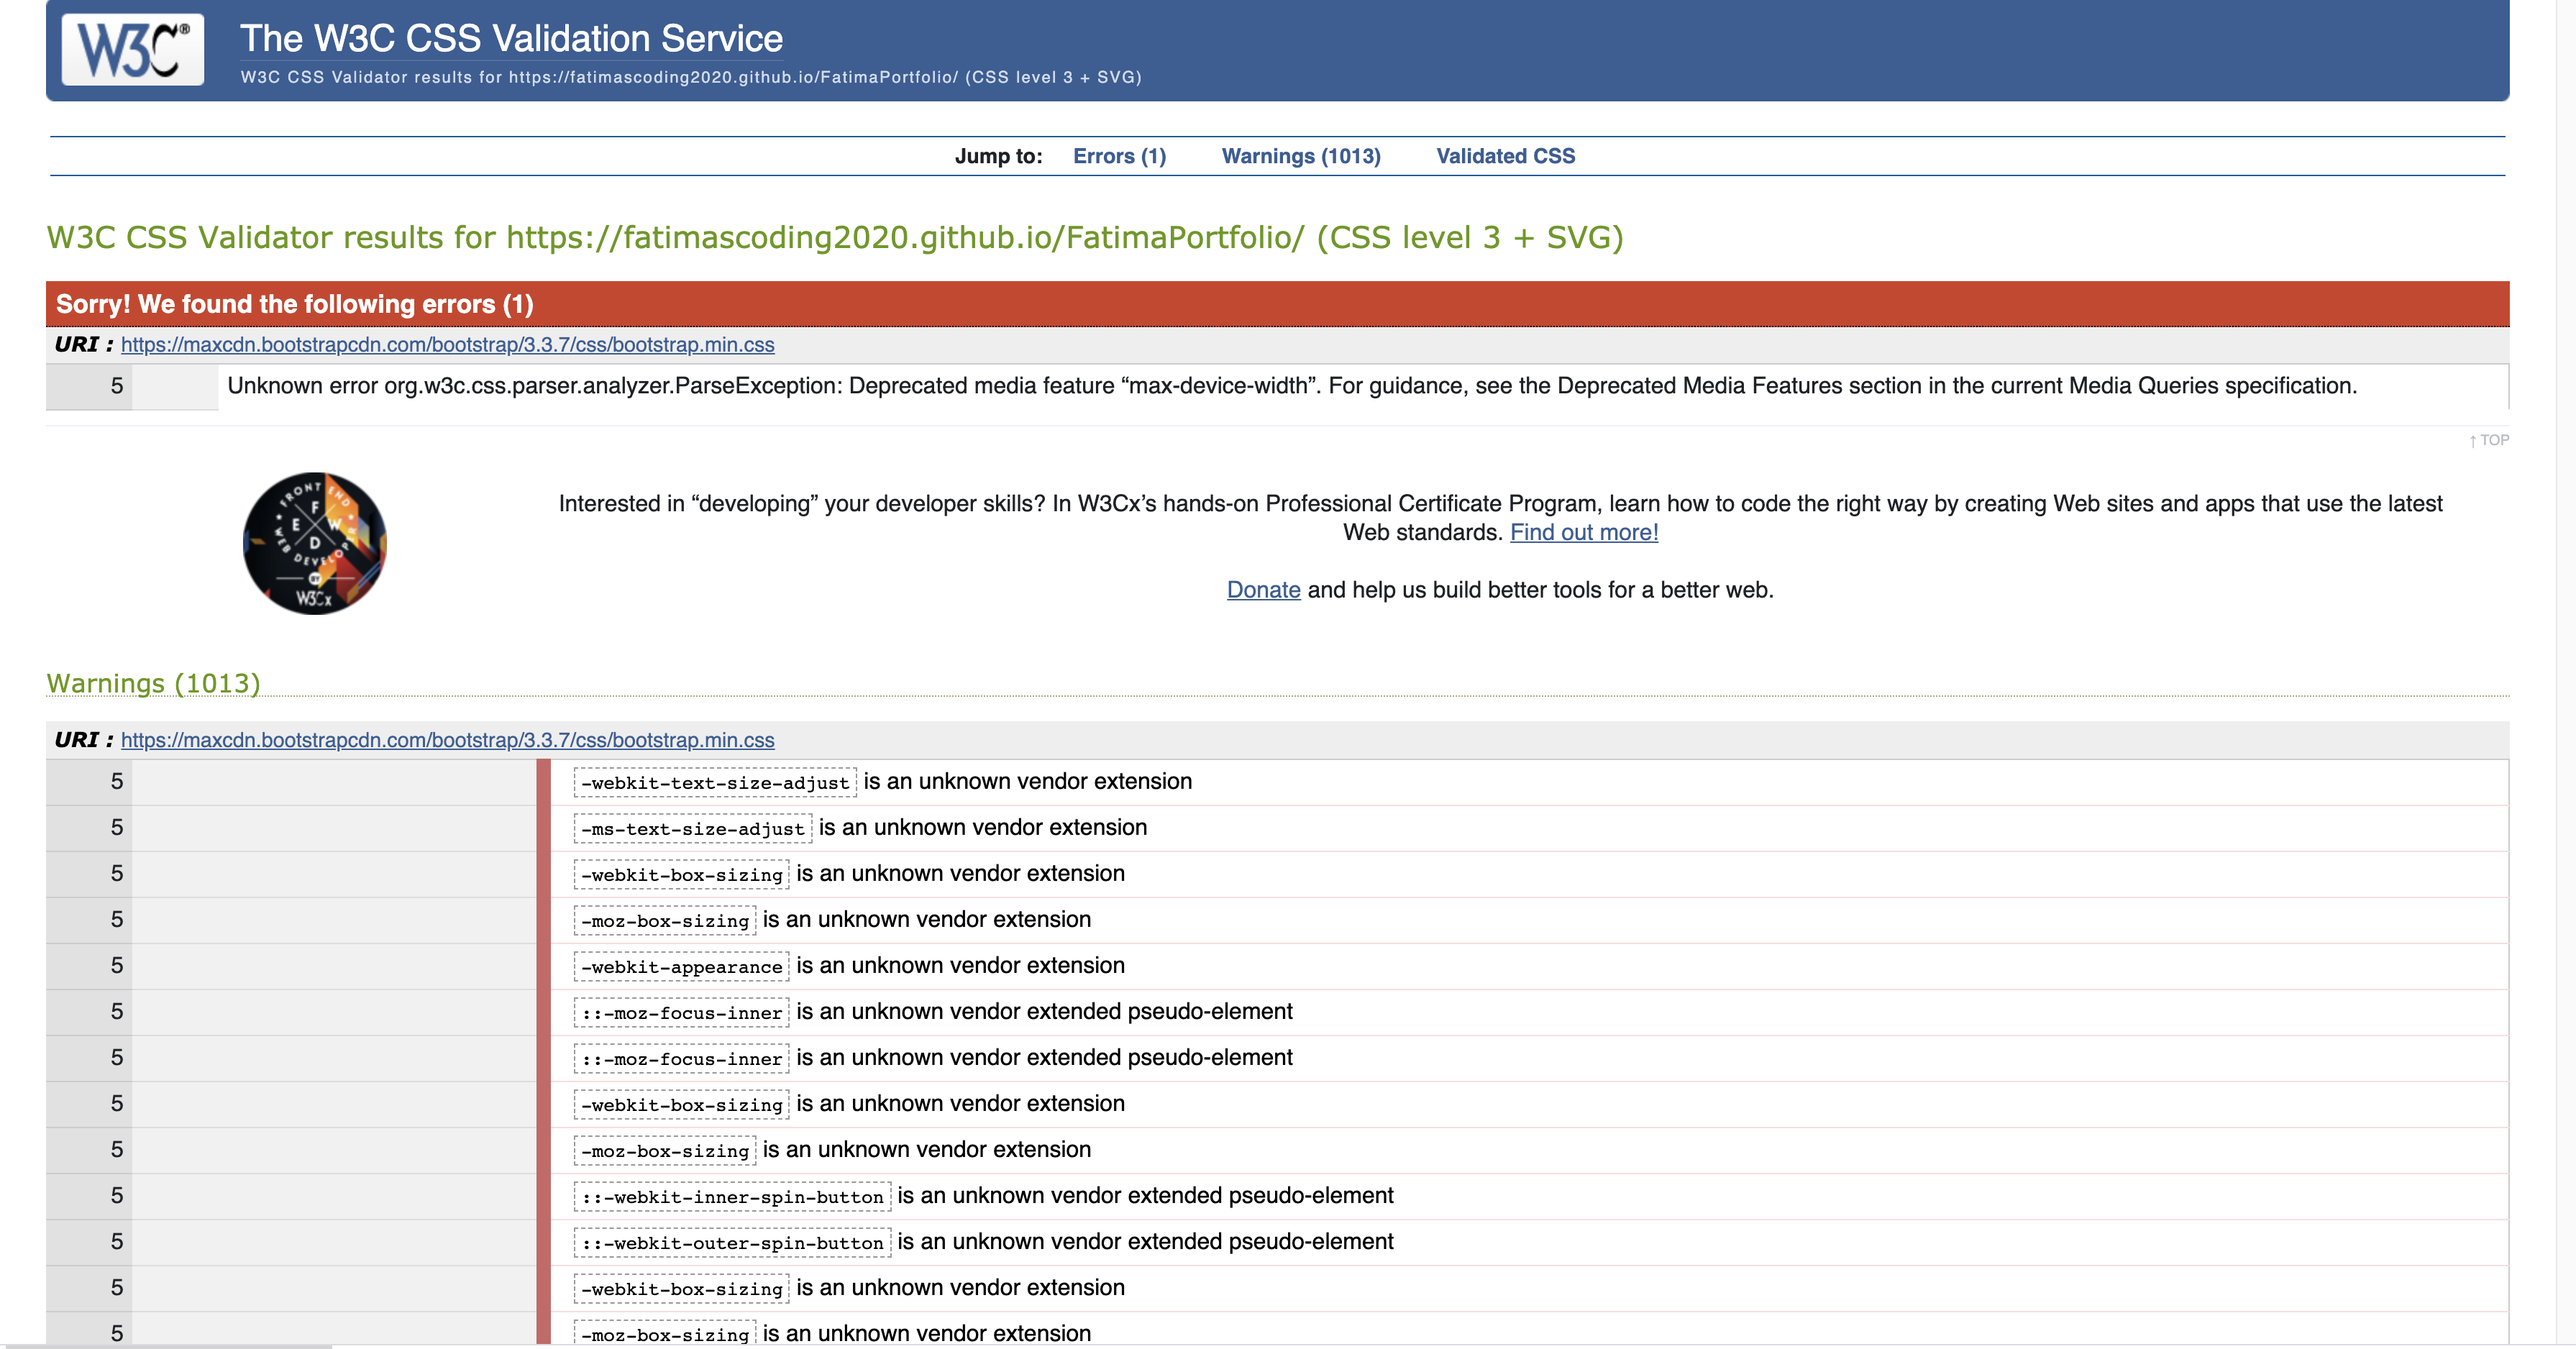
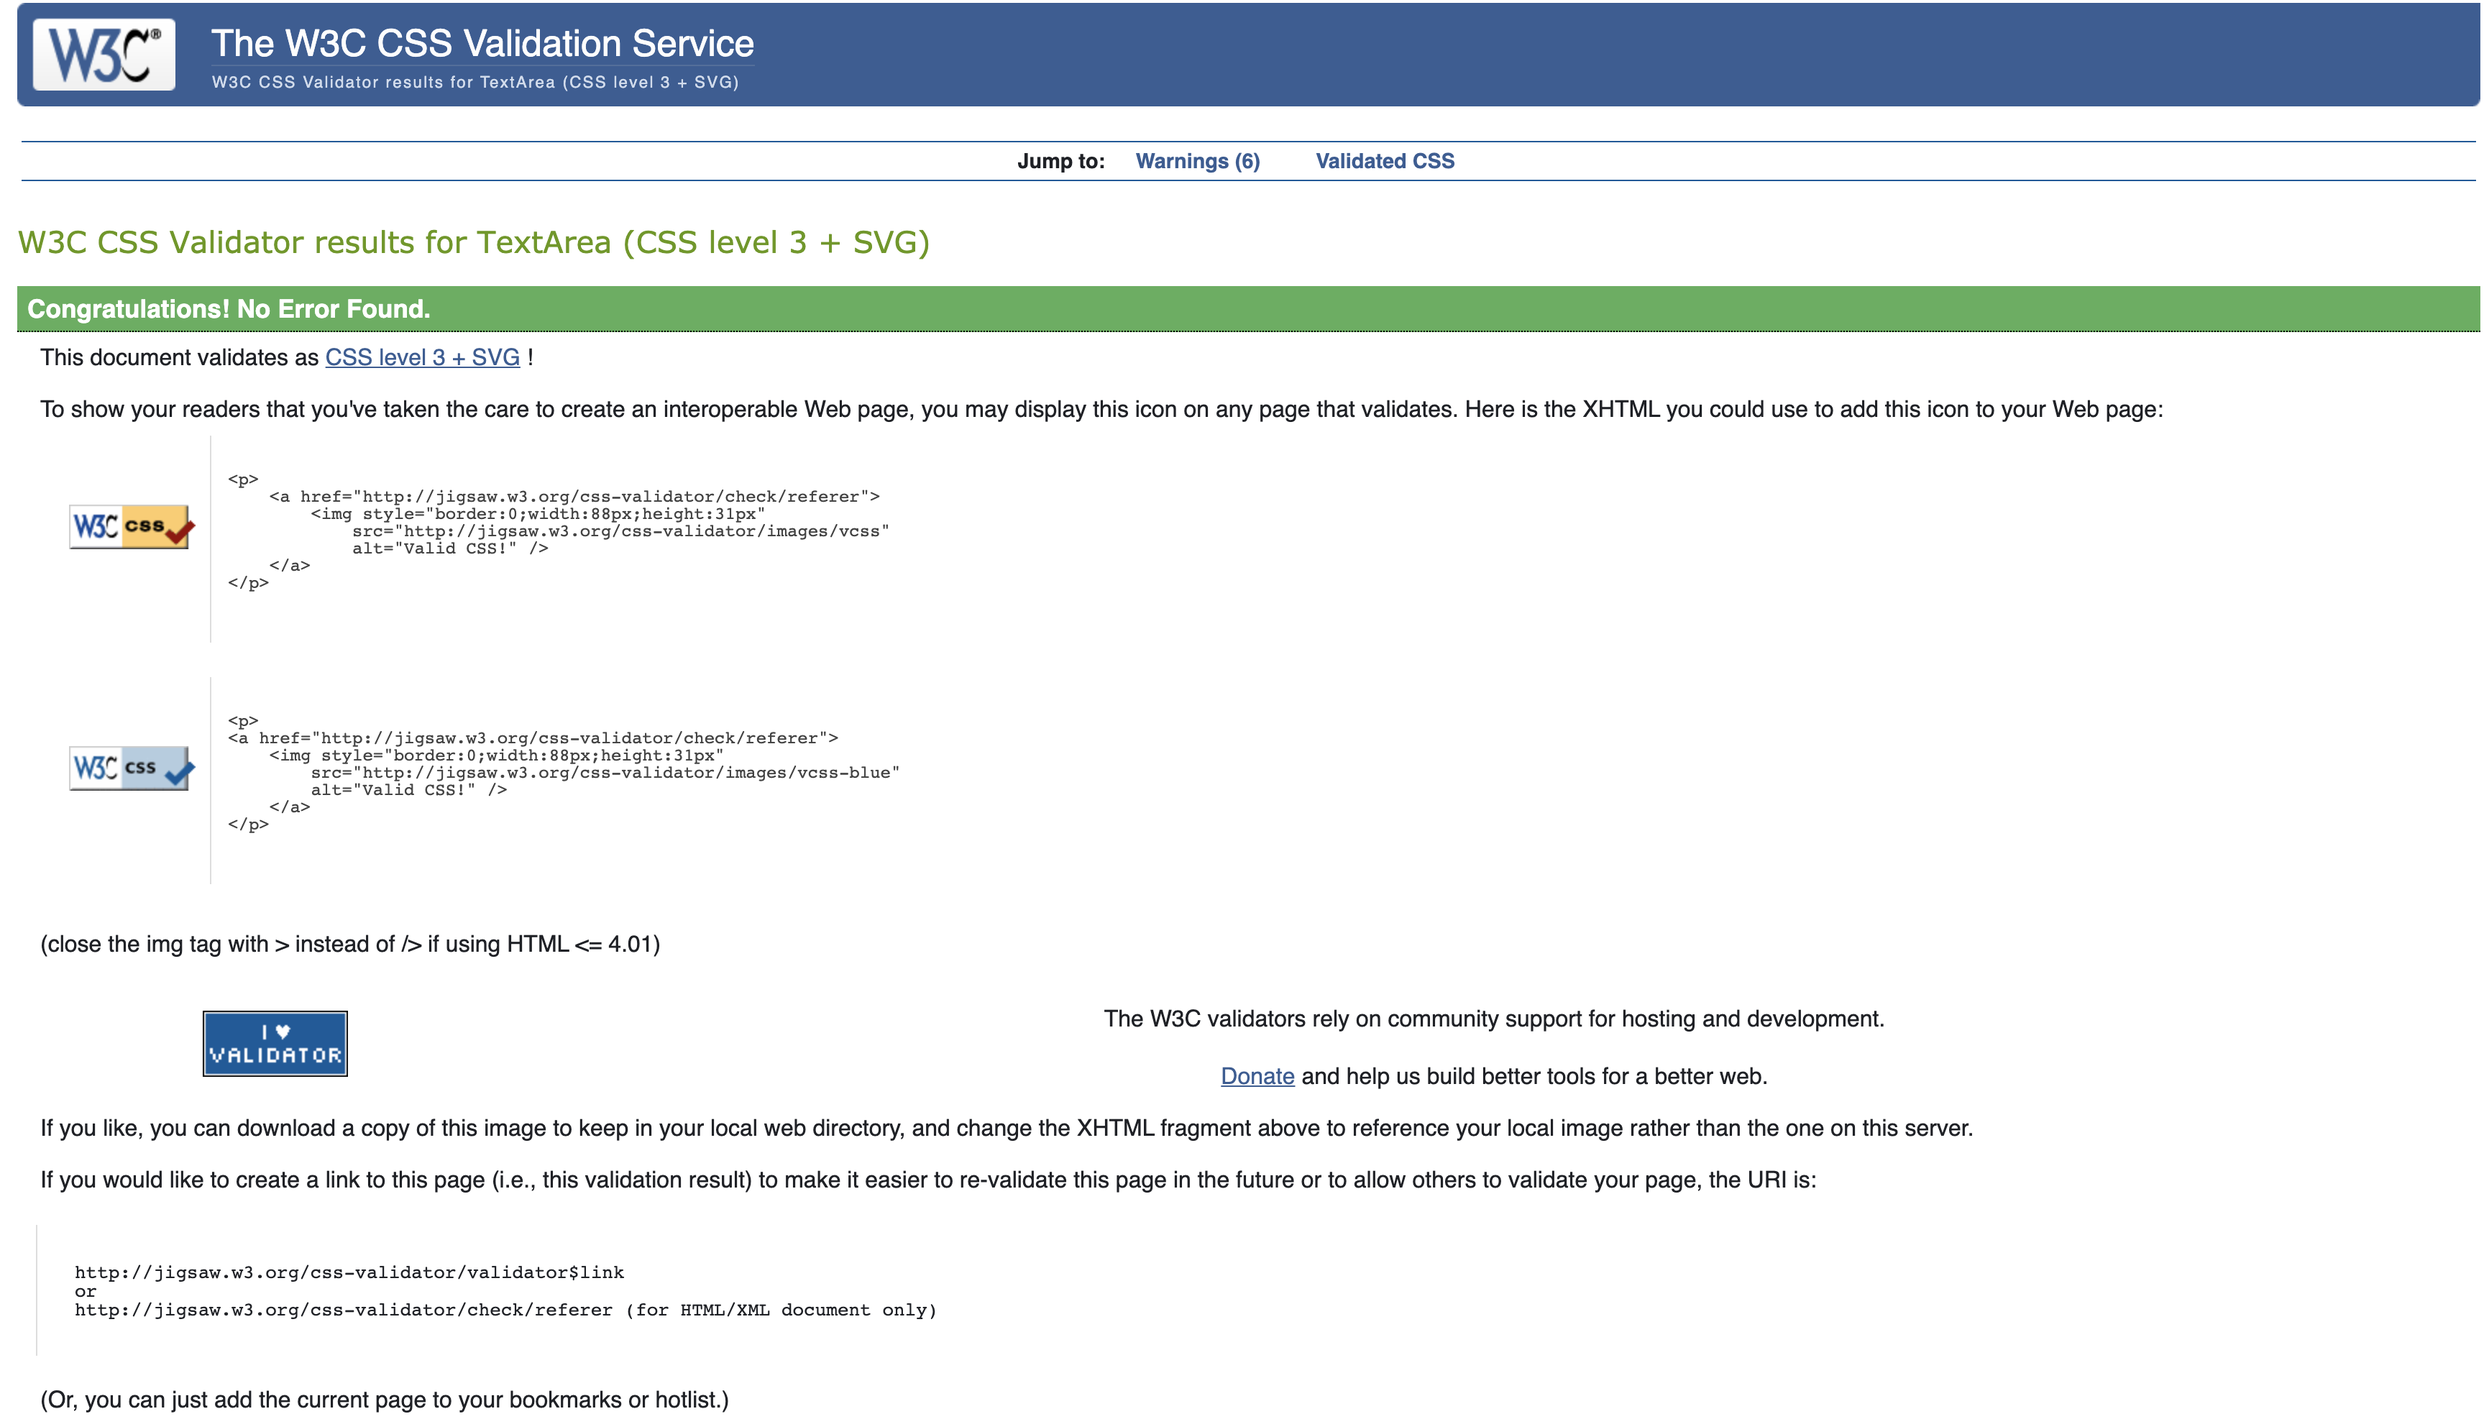
Final commit

diff --git a/TESTING.md b/TESTING.md
@@ -13,7 +13,7 @@ The test did not find any errors.
 
 ![CSS Validator](testingfiles/CSSValidation.png)
 
-The validator displayed 1 error related to Bootstrap library https://maxcdn.bootstrapcdn.com/bootstrap/3.3.7/css/bootstrap.min.css
+The validator did not display any errors.
 
 ## Responsiveness
 
